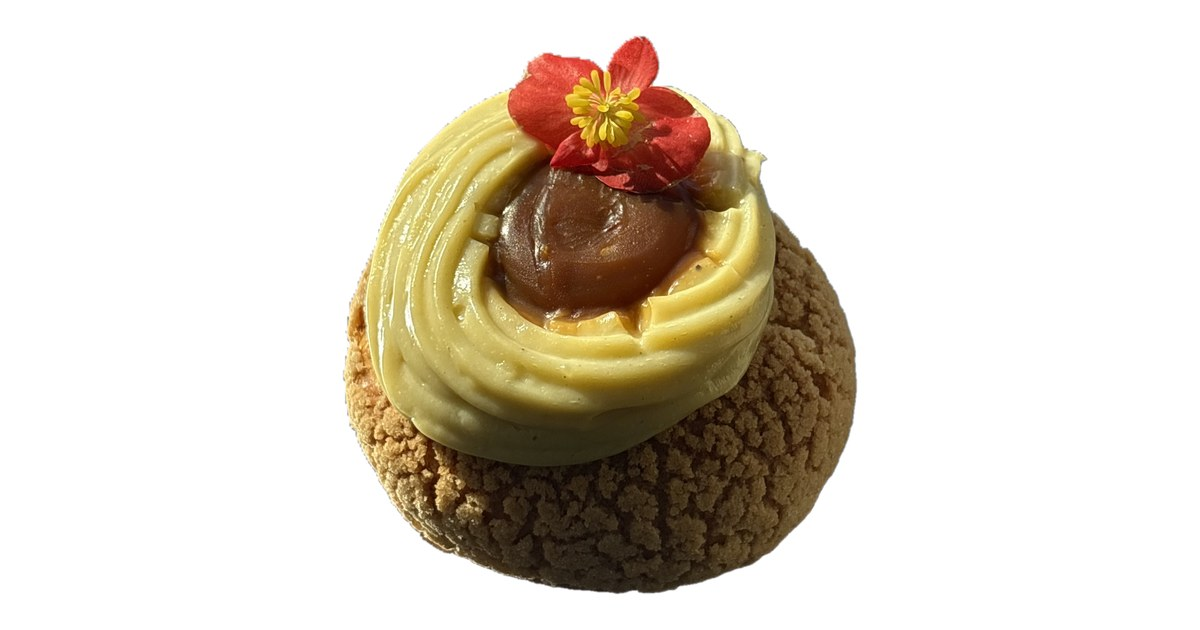
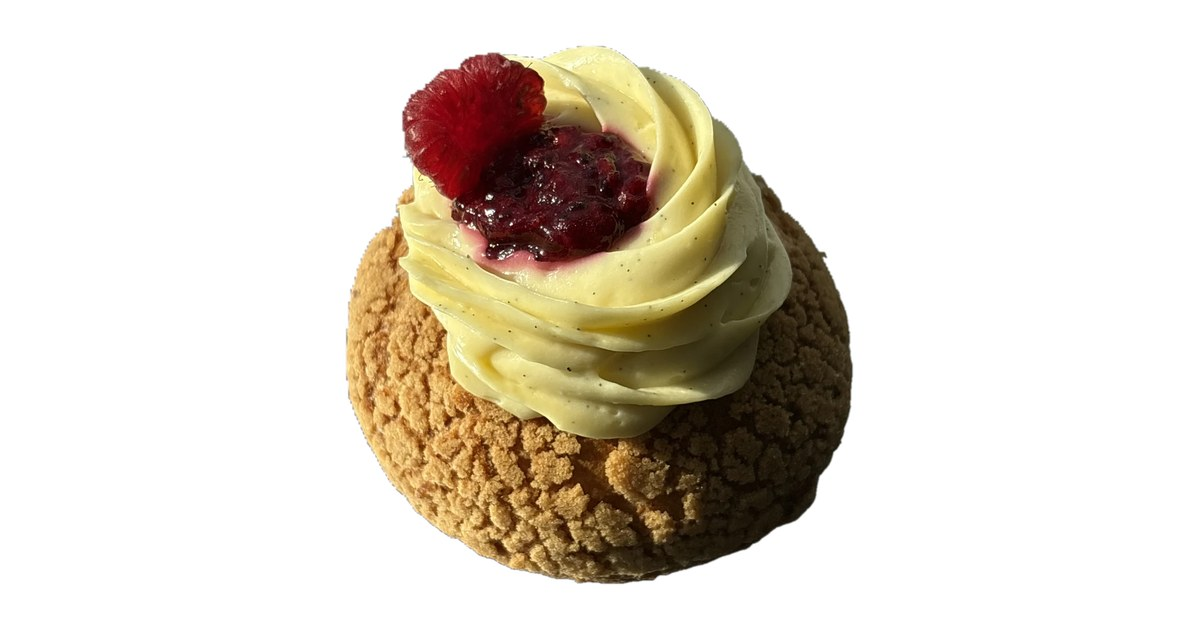
Remove the Belgian-chocolate praline choux from the menu
Six products left (clean 3x3 grid); unused photos deleted and the
social share image rebuilt from the vanilla-raspberry choux.

Claude-Session: https://claude.ai/code/session_01WdCoLSmTMXiN4WiSdRqhuc

Changed region(s): [[0.2775, 0.0603, 0.74, 0.9651]]

diff --git a/index.html b/index.html
@@ -109,16 +109,6 @@
     <!-- PRODUSE: editează liber numele & descrierile de mai jos -->
     <div class="grid">
       <article class="card reveal" style="--d:0ms">
-        <figure class="card__media"><img src="assets/img/products/choux-fistic-caramel-sm.webp" srcset="assets/img/products/choux-fistic-caramel-sm.webp 640w, assets/img/products/choux-fistic-caramel.webp 1200w" sizes="(min-width:1024px) 30vw, (min-width:640px) 45vw, 88vw" width="590" height="640" loading="lazy" alt="Choux cu cremă diplomat, pralină din nuci coapte și floare comestibilă roșie"></figure>
-        <div class="card__body">
-          <h3>Choux cu ciocolată belgiană și pralină de nuci</h3>
-          <p class="card__price">30 lei</p>
-          <p>Cremă diplomat cu ciocolată belgiană și pralină artizanală din nuci coapte.</p>
-          <a class="card__order" href="https://wa.me/40736619631?text=Bun%C4%83!%20A%C8%99%20dori%20s%C4%83%20comand%3A%20Choux%20cu%20ciocolat%C4%83%20belgian%C4%83%20%C8%99i%20pralin%C4%83%20de%20nuci" target="_blank" rel="noopener">Comandă<svg class="ic" viewBox="0 0 24 24" aria-hidden="true"><path fill="currentColor" d="M4 11h12.2l-4.6-4.6L13 5l7 7-7 7-1.4-1.4 4.6-4.6H4z"/></svg></a>
-        </div>
-      </article>
-
-      <article class="card reveal" style="--d:70ms">
         <figure class="card__media"><img src="assets/img/products/choux-vanilie-zmeura-sm.webp" srcset="assets/img/products/choux-vanilie-zmeura-sm.webp 640w, assets/img/products/choux-vanilie-zmeura.webp 1200w" sizes="(min-width:1024px) 30vw, (min-width:640px) 45vw, 88vw" width="603" height="640" loading="lazy" alt="Choux auriu cu cremă diplomat de vanilie și o zmeură proaspătă deasupra"></figure>
         <div class="card__body">
           <h3>Choux vanilie &amp; zmeură</h3>
@@ -128,7 +118,7 @@
         </div>
       </article>
 
-      <article class="card reveal" style="--d:140ms">
+      <article class="card reveal" style="--d:70ms">
         <figure class="card__media"><img src="assets/img/products/choux-afine-sm.webp" srcset="assets/img/products/choux-afine-sm.webp 640w, assets/img/products/choux-afine.webp 1200w" sizes="(min-width:1024px) 30vw, (min-width:640px) 45vw, 88vw" width="640" height="634" loading="lazy" alt="Choux cu craquelin roz, namelaka de căpșuni și afine proaspete deasupra"></figure>
         <div class="card__body">
           <h3>Choux cu căpșuni și afine</h3>
@@ -138,7 +128,7 @@
         </div>
       </article>
 
-      <article class="card reveal" style="--d:0ms">
+      <article class="card reveal" style="--d:140ms">
         <figure class="card__media"><img src="assets/img/products/choux-ciocolata-sm.webp" srcset="assets/img/products/choux-ciocolata-sm.webp 640w, assets/img/products/choux-ciocolata.webp 1200w" sizes="(min-width:1024px) 30vw, (min-width:640px) 45vw, 88vw" width="570" height="640" loading="lazy" alt="Choux de cacao cu cremă de ciocolată belgiană, compote de banane și floare comestibilă"></figure>
         <div class="card__body">
           <h3>Choux ciocolată &amp; banane flambate</h3>
@@ -148,7 +138,7 @@
         </div>
       </article>
 
-      <article class="card reveal" style="--d:70ms">
+      <article class="card reveal" style="--d:0ms">
         <figure class="card__media"><img src="assets/img/products/choux-zmeura-caise-sm.webp" srcset="assets/img/products/choux-zmeura-caise-sm.webp 640w, assets/img/products/choux-zmeura-caise.webp 1200w" sizes="(min-width:1024px) 30vw, (min-width:640px) 45vw, 88vw" width="632" height="640" loading="lazy" alt="Choux cu craquelin violet, namelaka de cocos și jeleu de mango cu fructul pasiunii, decorat cu petale roșii"></figure>
         <div class="card__body">
           <h3>Choux cocos, mango &amp; fructul pasiunii</h3>
@@ -158,7 +148,7 @@
         </div>
       </article>
 
-      <article class="card reveal" style="--d:140ms">
+      <article class="card reveal" style="--d:70ms">
         <figure class="card__media"><img src="assets/img/products/choux-mango-sm.webp" srcset="assets/img/products/choux-mango-sm.webp 640w, assets/img/products/choux-mango.webp 1200w" sizes="(min-width:1024px) 30vw, (min-width:640px) 45vw, 88vw" width="640" height="472" loading="lazy" alt="Tartă cu jeleu de mango în spirală, namelaka de cocos, bezea și fulgi de cocos"></figure>
         <div class="card__body">
           <h3>Tartă cu mango, cocos și fructul pasiunii</h3>
@@ -168,7 +158,7 @@
         </div>
       </article>
 
-      <article class="card reveal" style="--d:0ms">
+      <article class="card reveal" style="--d:140ms">
         <figure class="card__media"><img src="assets/img/products/tarta-tiramisu-sm.webp" srcset="assets/img/products/tarta-tiramisu-sm.webp 640w, assets/img/products/tarta-tiramisu.webp 1200w" sizes="(min-width:1024px) 30vw, (min-width:640px) 45vw, 88vw" width="640" height="425" loading="lazy" alt="Tartă tiramisu alungită cu picuri de mascarpone pudrați cu cacao"></figure>
         <div class="card__body">
           <h3>Tartă tiramisu</h3>
